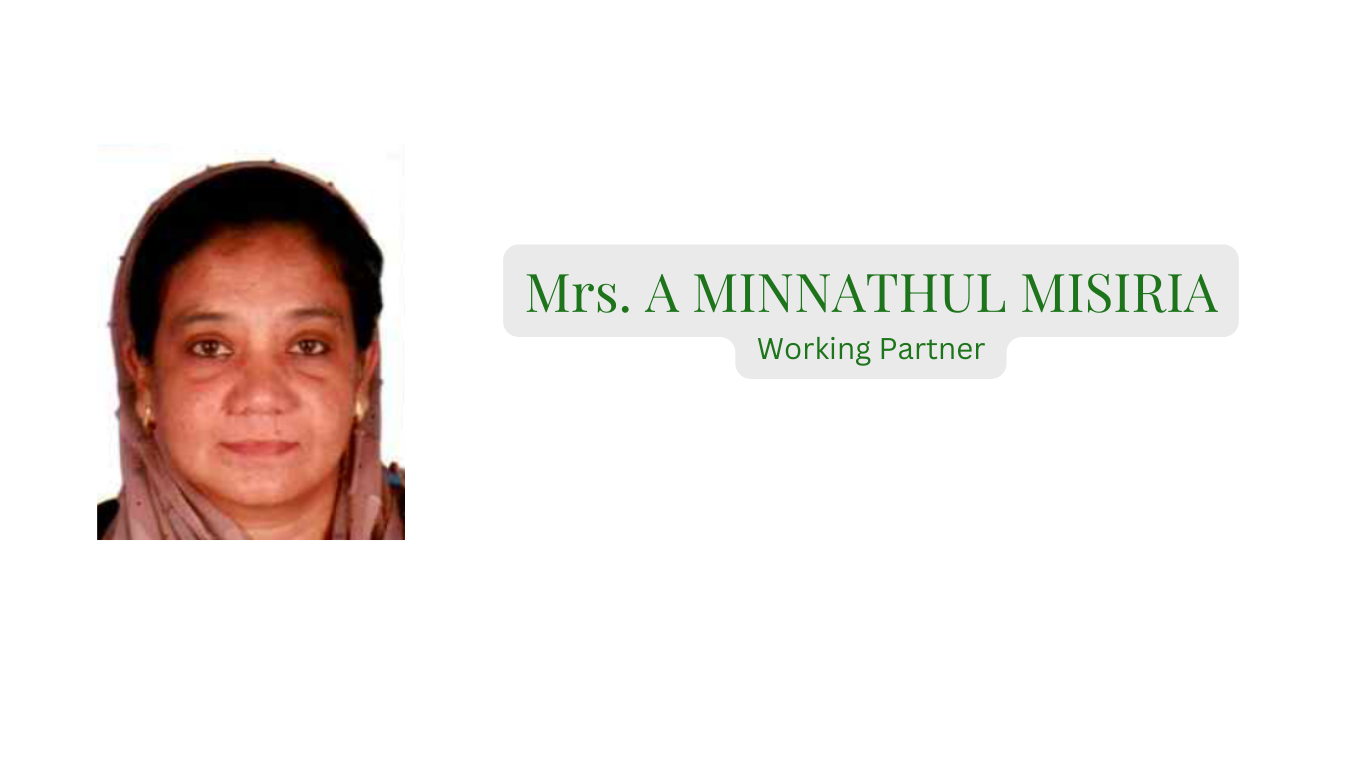
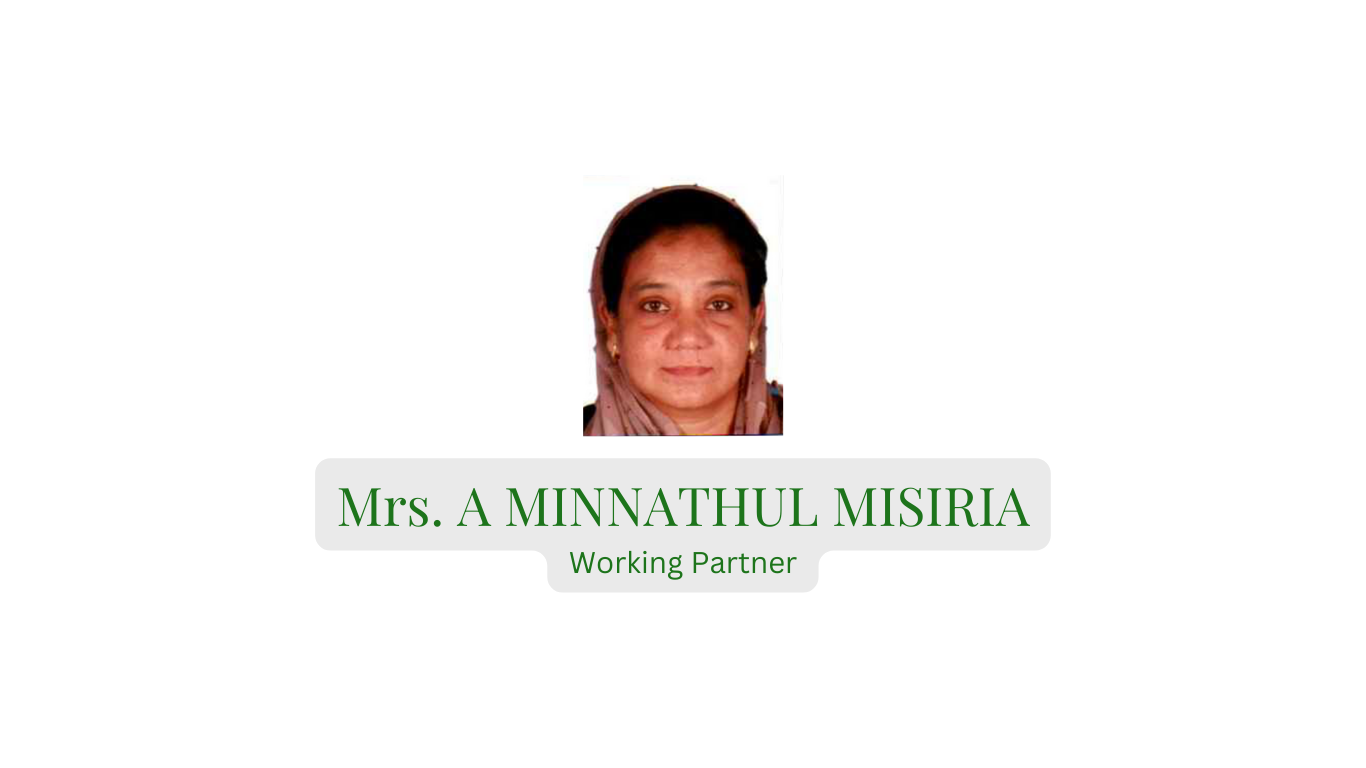
commit

Changed region(s): [[0.0615, 0.1875, 0.7687, 0.7188], [0.369, 0.2188, 0.8917, 0.5938], [0.3997, 0.7188, 0.5842, 0.75]]

diff --git a/templates/index.html b/templates/index.html
@@ -88,11 +88,11 @@
     <!-- BG Slideshow -->
     <div class="bg-slideshow-wrapper flexslider height-100 no-border no-border-radius no-margin width-100">
       <div class="slides height-100 width-100">
-        <div class="bg-cover  display-block height-100 width-100">
+        <div class="bg-cover display-block height-100 width-100">
           <div class="display-table height-100 position-absolute position-top position-left width-100">
             <div class="display-table-cell vertical-align-middle">
               <div class="col-md-12">
-                <img src="../static/images/slides/founder_bg.png" class="workers"><br>
+                <img src="../static/images/slides/7.png" class="workers"><br>
                 <!-- <div class="col-sm-4 col-sm-10 row text-center bg-base-color no-margin-bottom no-margin-rl  ">
                   <h4 class="name">Mr. N G A AHAMED MEERA SAHIB<br><B>FOUNDER</B></h4>
                 </div> -->
@@ -110,7 +110,25 @@
           <div class="display-table height-100 position-absolute position-top position-left width-100">
             <div class="display-table-cell vertical-align-middle">
               <div class="col-md-12">
-                <img src="../static/images/slides/managing partner_bg2.png" class="workers"><br>
+                <img src="../static/images/slides/1.png" class="workers"><br>
+                <!-- <div class="col-sm-4 col-sm-10 row text-center bg-base-color no-margin-bottom no-margin-rl  ">
+                  <h4 class="name">Mr. N G A AHAMED MEERA SAHIB<br><B>FOUNDER</B></h4>
+                </div> -->
+
+              </div>
+
+            </div>
+            <!-- //.display-table-cell -->
+          </div>
+          <!-- //.display-table -->
+        </div>
+        <!-- //.bg-cover -->
+
+        <div class="bg-cover display-block height-100 width-100">
+          <div class="display-table height-100 position-absolute position-top position-left width-100">
+            <div class="display-table-cell vertical-align-middle">
+              <div class="col-md-12">
+                <img src="../static/images/slides/2.png" class="workers"><br>
                 <!-- <div class=" col-sm-12 row text-center bg-base-color no-margin-bottom no-margin-rl  pull-right">
                   <h4 class="name">Mr. AHAMED ASHRAF<br> <B>MANAGING PARTNER</B> <br>
                     <a href="mailto: ashrafmeeras@gmail.com"><i class="fa fa-envelope">
@@ -138,7 +156,7 @@
           <div class="display-table height-100 position-absolute position-top position-left width-100">
             <div class="display-table-cell vertical-align-middle">
               <div class="col-md-12">
-                <img src="../static/images/slides/working partner_bg.png" class="workers">
+                <img src="../static/images/slides/3.png" class="workers">
                 <!-- <div class="col-sm-4 col-sm-10 row text-center bg-base-color no-margin-bottom no-margin-rl  ">
                   <h4 class="name">Mrs. A MINNATHUL MISIRIA <br><B>WORKING PARTNER</B> </h4>
                 </div> -->

diff --git a/static/css/style.css b/static/css/style.css
@@ -32,15 +32,21 @@
 /* Home BG Slideshow */
 
 #home-bg-slideshow .bg-slideshow-wrapper .slides > .bg-cover:nth-child(1) {
-  background: url("../images/slides/bg.png");
+  background: url("../images/slides/b1g.png");
   position: relative;
+  
 }
 #home-bg-slideshow .bg-slideshow-wrapper .slides > .bg-cover:nth-child(2) {
-  background: url("../images/slides/bg.png");
+  background: url("../images/slides/b1g.png");
   position: relative;
 }
 #home-bg-slideshow .bg-slideshow-wrapper .slides > .bg-cover:nth-child(3) {
-  background: url("../images/slides/bg.png");
+  background: url("../images/slides/b1g.png");
+  position: relative;
+}
+
+#home-bg-slideshow .bg-slideshow-wrapper .slides > .bg-cover:nth-child(4) {
+  background: url("../images/slides/b1g.png");
   position: relative;
 }
 
@@ -70,7 +76,7 @@
   -----
 */
 
-#intro .features-box .bg-cover {
+/* #intro .features-box .bg-cover {
   -ms-backface-visibility: hidden;
   -moz-backface-visibility: hidden;
   -webkit-backface-visibility: hidden;
@@ -84,18 +90,18 @@
 }
 #intro .features-box:nth-child(3) .bg-cover {
   background-image: url("../images/slides/working partner.png");
-}
+} */
 
 
 
 /* worker intro */
 
 .workers {
-  max-height:400px; 
-  min-height: auto;
-  width:fit-content;
+  max-height:600px; 
+  min-height:500px;
+  width:auto;
   /* border-radius: 400px; */
-  justify-content: center;
+  
   text-align: center;
   position: relative;
   display: block;

diff --git a/static/css/main.css b/static/css/main.css
@@ -974,6 +974,7 @@ h6 {
   height: 50%!important
 }
 
+
 .height-100 {
   height: 100%!important
 }
